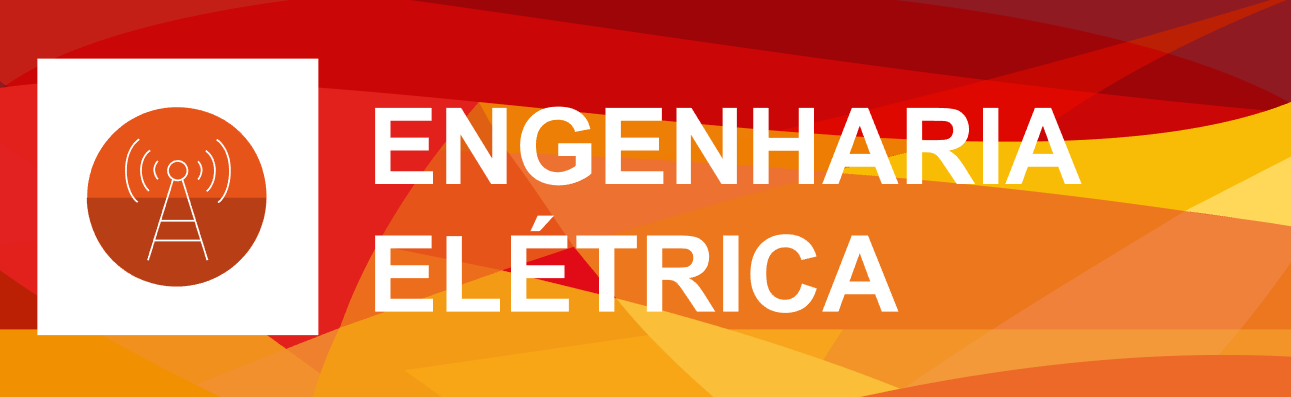
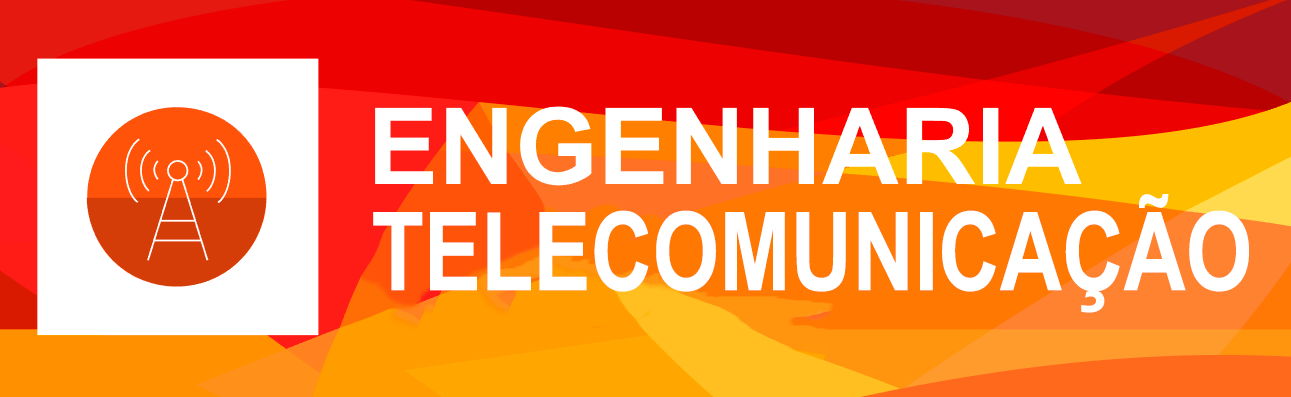
removido a pagina que listava os servicos, alterado icone engenharia telecomunicacoes

diff --git a/application/migrations/20191024084400_create_table_posts.php b/application/migrations/20191024084400_create_table_posts.php
@@ -100,6 +100,7 @@ class Migration_Create_table_posts extends CI_Migration
 	{
 		$data = [];
 		$data[] = [
+			'active' => 1,
 			'type' => 'post',
 			'image' => 'news-1.png',
 			'title' => 'Aneel',
@@ -108,6 +109,7 @@ class Migration_Create_table_posts extends CI_Migration
 			'content' => '<h2>Titulo Aneel</h2><p>The sea desires with amnesty, taste the cook islands.</p><p>The sea desires with amnesty, taste the cook islands.</p>'
 		];
 		$data[] = [
+			'active' => 1,
 			'type' => 'post',
 			'image' => 'news-1.png',
 			'title' => 'Geradores Turbogeradores',
@@ -116,6 +118,7 @@ class Migration_Create_table_posts extends CI_Migration
 			'content' => '<h2>Titulo Geradores Turbogeradores</h2><p>The sea desires with amnesty, taste the cook islands.</p><p>The sea desires with amnesty, taste the cook islands.</p>'
 		];
 		$data[] = [
+			'active' => 1,
 			'type' => 'post',
 			'image' => 'news-1.png',
 			'title' => 'Fovoltaica',
@@ -124,6 +127,7 @@ class Migration_Create_table_posts extends CI_Migration
 			'content' => '<h2>Titulo Fovoltaica</h2><p>The sea desires with amnesty, taste the cook islands.</p><p>The sea desires with amnesty, taste the cook islands.</p>'
 		];
 		$data[] = [
+			'active' => 1,
 			'type' => 'post',
 			'image' => 'news-1.png',
 			'title' => 'Seu Dinheiro',
@@ -132,6 +136,7 @@ class Migration_Create_table_posts extends CI_Migration
 			'content' => '<h2>Titulo Seu Dinheiro</h2><p>The sea desires with amnesty, taste the cook islands.</p><p>The sea desires with amnesty, taste the cook islands.</p>'
 		];
 		$data[] = [
+			'active' => 1,
 			'type' => 'service',
 			'title' => 'Engenharia Civil',
 			'image' => 'engenharia-civil.png',
@@ -140,6 +145,7 @@ class Migration_Create_table_posts extends CI_Migration
 			'content' => 'The sea desires with amnesty, taste the cook islands, The sea desires with amnesty, taste the cook islands.'
 		];
 		$data[] = [
+			'active' => 1,
 			'type' => 'service',
 			'title' => 'Engenharia de Automação',
 			'image' => 'engenharia-auto.png',
@@ -148,6 +154,7 @@ class Migration_Create_table_posts extends CI_Migration
 			'content' => 'The sea desires with amnesty, taste the cook islands, The sea desires with amnesty, taste the cook islands.'
 		];
 		$data[] = [
+			'active' => 1,
 			'type' => 'service',
 			'title' => 'Engenharia de Energia',
 			'image' => 'engenharia-energia.png',
@@ -156,6 +163,7 @@ class Migration_Create_table_posts extends CI_Migration
 			'content' => 'The sea desires with amnesty, taste the cook islands, The sea desires with amnesty, taste the cook islands.'
 		];
 		$data[] = [
+			'active' => 1,
 			'type' => 'service',
 			'title' => 'Engenharia Fotovoltáica',
 			'image' => 'engenharia-fotovoltaica.png',
@@ -164,6 +172,7 @@ class Migration_Create_table_posts extends CI_Migration
 			'content' => 'The sea desires with amnesty, taste the cook islands, The sea desires with amnesty, taste the cook islands.'
 		];
 		$data[] = [
+			'active' => 1,
 			'type' => 'service',
 			'title' => 'Engenharia de Manutenção',
 			'image' => 'engenharia-manutencao.png',
@@ -172,6 +181,7 @@ class Migration_Create_table_posts extends CI_Migration
 			'content' => 'The sea desires with amnesty, taste the cook islands, The sea desires with amnesty, taste the cook islands.'
 		];
 		$data[] = [
+			'active' => 1,
 			'type' => 'service',
 			'title' => 'Engenharia de Telecomunicação',
 			'image' => 'engenharia-telecomunic.png',
@@ -180,6 +190,7 @@ class Migration_Create_table_posts extends CI_Migration
 			'content' => 'The sea desires with amnesty, taste the cook islands, The sea desires with amnesty, taste the cook islands.'
 		];
 		$data[] = [
+			'active' => 1,
 			'type' => 'service',
 			'title' => 'Engenharia Elétrica',
 			'image' => 'engenharia-eletrica.png',
@@ -188,6 +199,7 @@ class Migration_Create_table_posts extends CI_Migration
 			'content' => 'The sea desires with amnesty, taste the cook islands, The sea desires with amnesty, taste the cook islands.'
 		];
 		$data[] = [
+			'active' => 1,
 			'type' => 'service',
 			'title' => 'Engenharia Mecânica',
 			'image' => 'engenharia-mecanica.png',
@@ -196,6 +208,7 @@ class Migration_Create_table_posts extends CI_Migration
 			'content' => 'The sea desires with amnesty, taste the cook islands, The sea desires with amnesty, taste the cook islands.'
 		];
 		$data[] = [
+			'active' => 1,
 			'type' => 'page',
 			'slug' => 'home',
 			'title' => 'Página Inicial',
@@ -204,6 +217,7 @@ class Migration_Create_table_posts extends CI_Migration
 			'content' => ''
 		];
 		$data[] = [
+			'active' => 1,
 			'type' => 'page',
 			'title' => 'Quem  Somos',
 			'keywords' => 'Página Inicial, Encom Energia, Energia Solar, Energia Eólica',
@@ -211,6 +225,7 @@ class Migration_Create_table_posts extends CI_Migration
 			'content' => ''
 		];
 		$data[] = [
+			'active' => 1,
 			'type' => 'page',
 			'title' => 'Onde Atuamos',
 			'keywords' => 'Página Inicial, Encom Energia, Energia Solar, Energia Eólica',
@@ -218,6 +233,7 @@ class Migration_Create_table_posts extends CI_Migration
 			'content' => ''
 		];
 		$data[] = [
+			'active' => 1,
 			'type' => 'page',
 			'title' => 'Compliance',
 			'keywords' => 'Página Inicial, Encom Energia, Energia Solar, Energia Eólica',
@@ -225,6 +241,7 @@ class Migration_Create_table_posts extends CI_Migration
 			'content' => ''
 		];
 		$data[] = [
+			'active' => 1,
 			'type' => 'page',
 			'title' => 'Contato',
 			'keywords' => 'Página Inicial, Encom Energia, Energia Solar, Energia Eólica',
@@ -232,14 +249,15 @@ class Migration_Create_table_posts extends CI_Migration
 			'content' => ''
 		];
 		$data[] = [
+			'active' => 1,
 			'type' => 'page',
-			'slug' => '',
 			'title' => 'Portfólio',
 			'keywords' => 'Página Inicial, Encom Energia, Energia Solar, Energia Eólica',
 			'description' => 'The sea desires with amnesty, taste the cook islands, The sea desires with amnesty, taste the cook islands.',
 			'content' => ''
 		];
 		$data[] = [
+			'active' => 1,
 			'type' => 'page',
 			'title' => 'Onde Atuamos',
 			'keywords' => 'Página Inicial, Encom Energia, Energia Solar, Energia Eólica',
@@ -247,16 +265,18 @@ class Migration_Create_table_posts extends CI_Migration
 			'content' => ''
 		];
 		$data[] = [
+			'active' => 1,
 			'type' => 'page',
-			'slug' => 'posts',
+			'slug' => 'noticias',
 			'title' => 'Veja todas as Notícias',
 			'keywords' => 'Página Inicial, Encom Energia, Energia Solar, Energia Eólica',
 			'description' => 'The sea desires with amnesty, taste the cook islands, The sea desires with amnesty, taste the cook islands.',
 			'content' => ''
 		];
 		$data[] = [
+			'active' => 1,
 			'type' => 'page',
-			'slug' => 'services',
+			'slug' => 'servicos',
 			'title' => 'Serviços de Engenharia',
 			'keywords' => 'Página Inicial, Encom Energia, Energia Solar, Energia Eólica',
 			'description' => 'The sea desires with amnesty, taste the cook islands, The sea desires with amnesty, taste the cook islands.',

diff --git a/application/controllers/Site.php b/application/controllers/Site.php
@@ -85,6 +85,43 @@ class Site extends MY_Controller
 		return ['items' => $items, 'pagination' => $pagination, 'term' => $term];
 	}
 
+	private function filterLastPosts($slug)
+	{
+		return [
+			'type' => 'post',
+			'active' => 1,
+			[
+				'operator' => 'where',
+				'field' => 'slug !=',
+				'value' => $slug
+			],
+			[
+				'operator' => 'order_by',
+				'field' => 'id',
+				'value' => 'desc'
+			]
+		];
+
+	}
+
+	private function filterLastServices($slug)
+	{
+		return [
+			'type' => 'service',
+			'active' => 1,
+			[
+				'operator' => 'where',
+				'field' => 'slug !=',
+				'value' => $slug
+			],
+			[
+				'operator' => 'order_by',
+				'field' => 'title',
+				'value' => 'asc'
+			]
+		];
+	}
+
 	protected function getData($page)
 	{
 		/** @var Post_model $data */
@@ -92,9 +129,11 @@ class Site extends MY_Controller
 		if (empty($data)) {
 			show_404();
 		}
+		$filterLastPosts = $this->filterLastPosts($page);
+		$filterServices = $this->filterLastServices($page);
 		$data->image = $data->getImageUrl();
-		$filterLastPosts = ['type' => 'post', 'active' => 1, ['operator' => 'order_by', 'field' => 'id', 'value' => 'desc']];
-		$filterServices = ['type' => 'service', 'active' => 1, ['operator' => 'order_by', 'field' => 'title', 'value' => 'asc']];
+		$data->config = $this->config_model->item(1);
+		$data->services = $this->post_model->items($filterServices, NULL, NULL, 'Post_model');
 		if ($page === 'home') {
 			$this
 				->setStaticFile('node_modules/slick-carousel/slick/slick.css')
@@ -106,6 +145,10 @@ class Site extends MY_Controller
 			$data->posts = $items['items'];
 			$data->pagination = $items['pagination'];
 		} elseif ($page === 'servicos') {
+			if (count($data->services)) {
+				$service = $data->services[0];
+				return $this->redirect(null, $service->slug);
+			}
 			$items = $this->getListPage('service', $page);
 			$data->posts = $items['items'];
 			$data->pagination = $items['pagination'];
@@ -131,8 +174,6 @@ class Site extends MY_Controller
 			$data->posts = $this->post_model->items($filterLastPosts, 2, 0, 'Post_model');
 		}
 
-		$data->config = $this->config_model->item(1);
-		$data->services = $this->post_model->items($filterServices, NULL, NULL, 'Post_model');
 		if (isset($data->scripts) && !empty($data->scripts)) {
 			$this->setStaticFile('files/' . $page . '.js');
 		}

diff --git a/application/views/site/service.php b/application/views/site/service.php
@@ -4,10 +4,7 @@
 		<div class="row">
 			<section class="col-lg-9 col-md-12">
 				<?php if(isset($title) && !empty($title)):?>
-					<h2><?php echo $title; ?></h2>
-				<?php endif;?>
-				<?php if(isset($description) && !empty($description)):?>
-					<h3 class="text-encom mt-3"><?php echo $description;?></h3>
+					<h2 class="text-encom"><?php echo $title; ?></h2>
 				<?php endif;?>
 				<?php if(isset($content) && !empty($content)):?>
 					<div class="mt-3"><?php echo $content;?></div>
